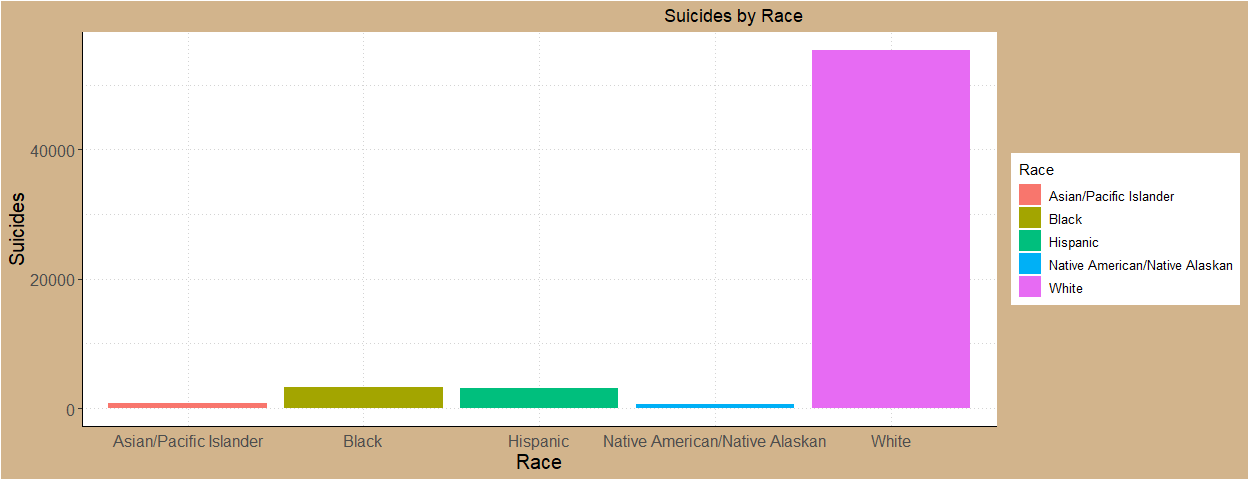
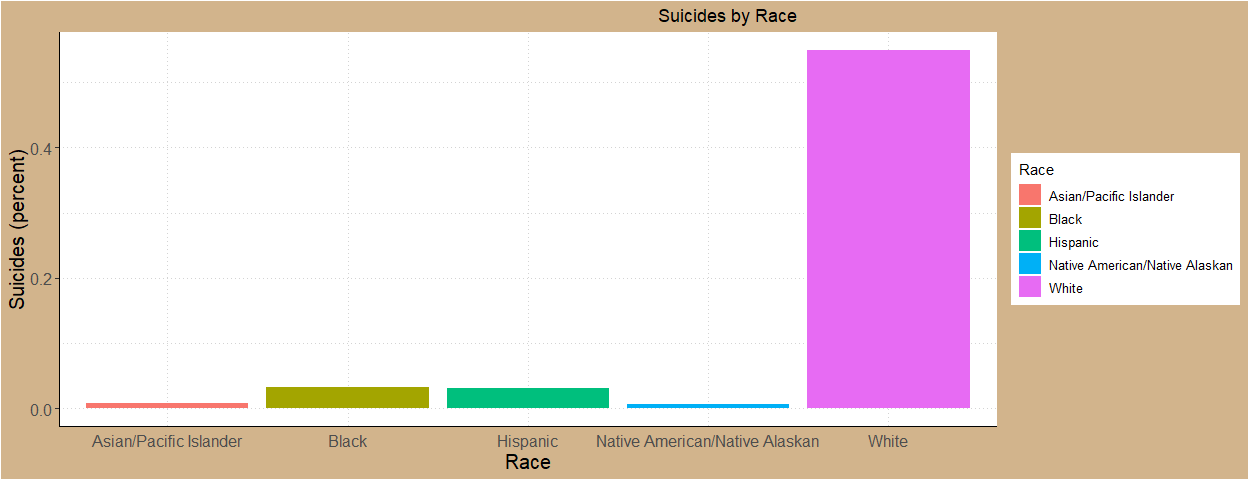
Made suicides an average

diff --git a/sprint2_gundeaths.md b/sprint2_gundeaths.md
@@ -1,5 +1,5 @@
 # Gun_Deaths
-2024-02-07
+2024-02-09
 
 ``` r
 library(tidyverse)
@@ -49,17 +49,17 @@ colnames(Gundeaths2)[which(colnames(Gundeaths2) == "race")] <- "Race"
 Suicide <- Gundeaths2 %>% 
   filter(intent == "Suicide") %>% 
   group_by(Race) %>% 
-  summarise(Total = n())
+  summarise(Fraction = n() / nrow(Gundeaths2))
 ```
 
 ## First Chart Showing the Various Suicides by race:
 
 ``` r
 ggplot(data = Suicide, 
-       mapping = aes(y = Total, x = Race, fill = Race)) +
+       mapping = aes(y = Fraction, x = Race, fill = Race)) +
   
   geom_col() +
-     labs(x= "Race", y = "Suicides", title = "Suicides by Race")+
+     labs(x= "Race", y = "Suicides (percent)", title = "Suicides by Race")+
 
   labs(title = "Suicides by Race") +
   theme(plot.title = element_text(hjust=.75),
@@ -100,8 +100,6 @@ ggplot(data = Gundeaths2,
   geom_bar(position = "dodge", color = "black") +
   labs(x = "Education", y = "Count", title = "Gun deaths based on Education") +
   theme_bw()+
-
-
 
   labs(title = "Gun deaths based on Education") +
   theme(plot.title = element_text(hjust=.75),
